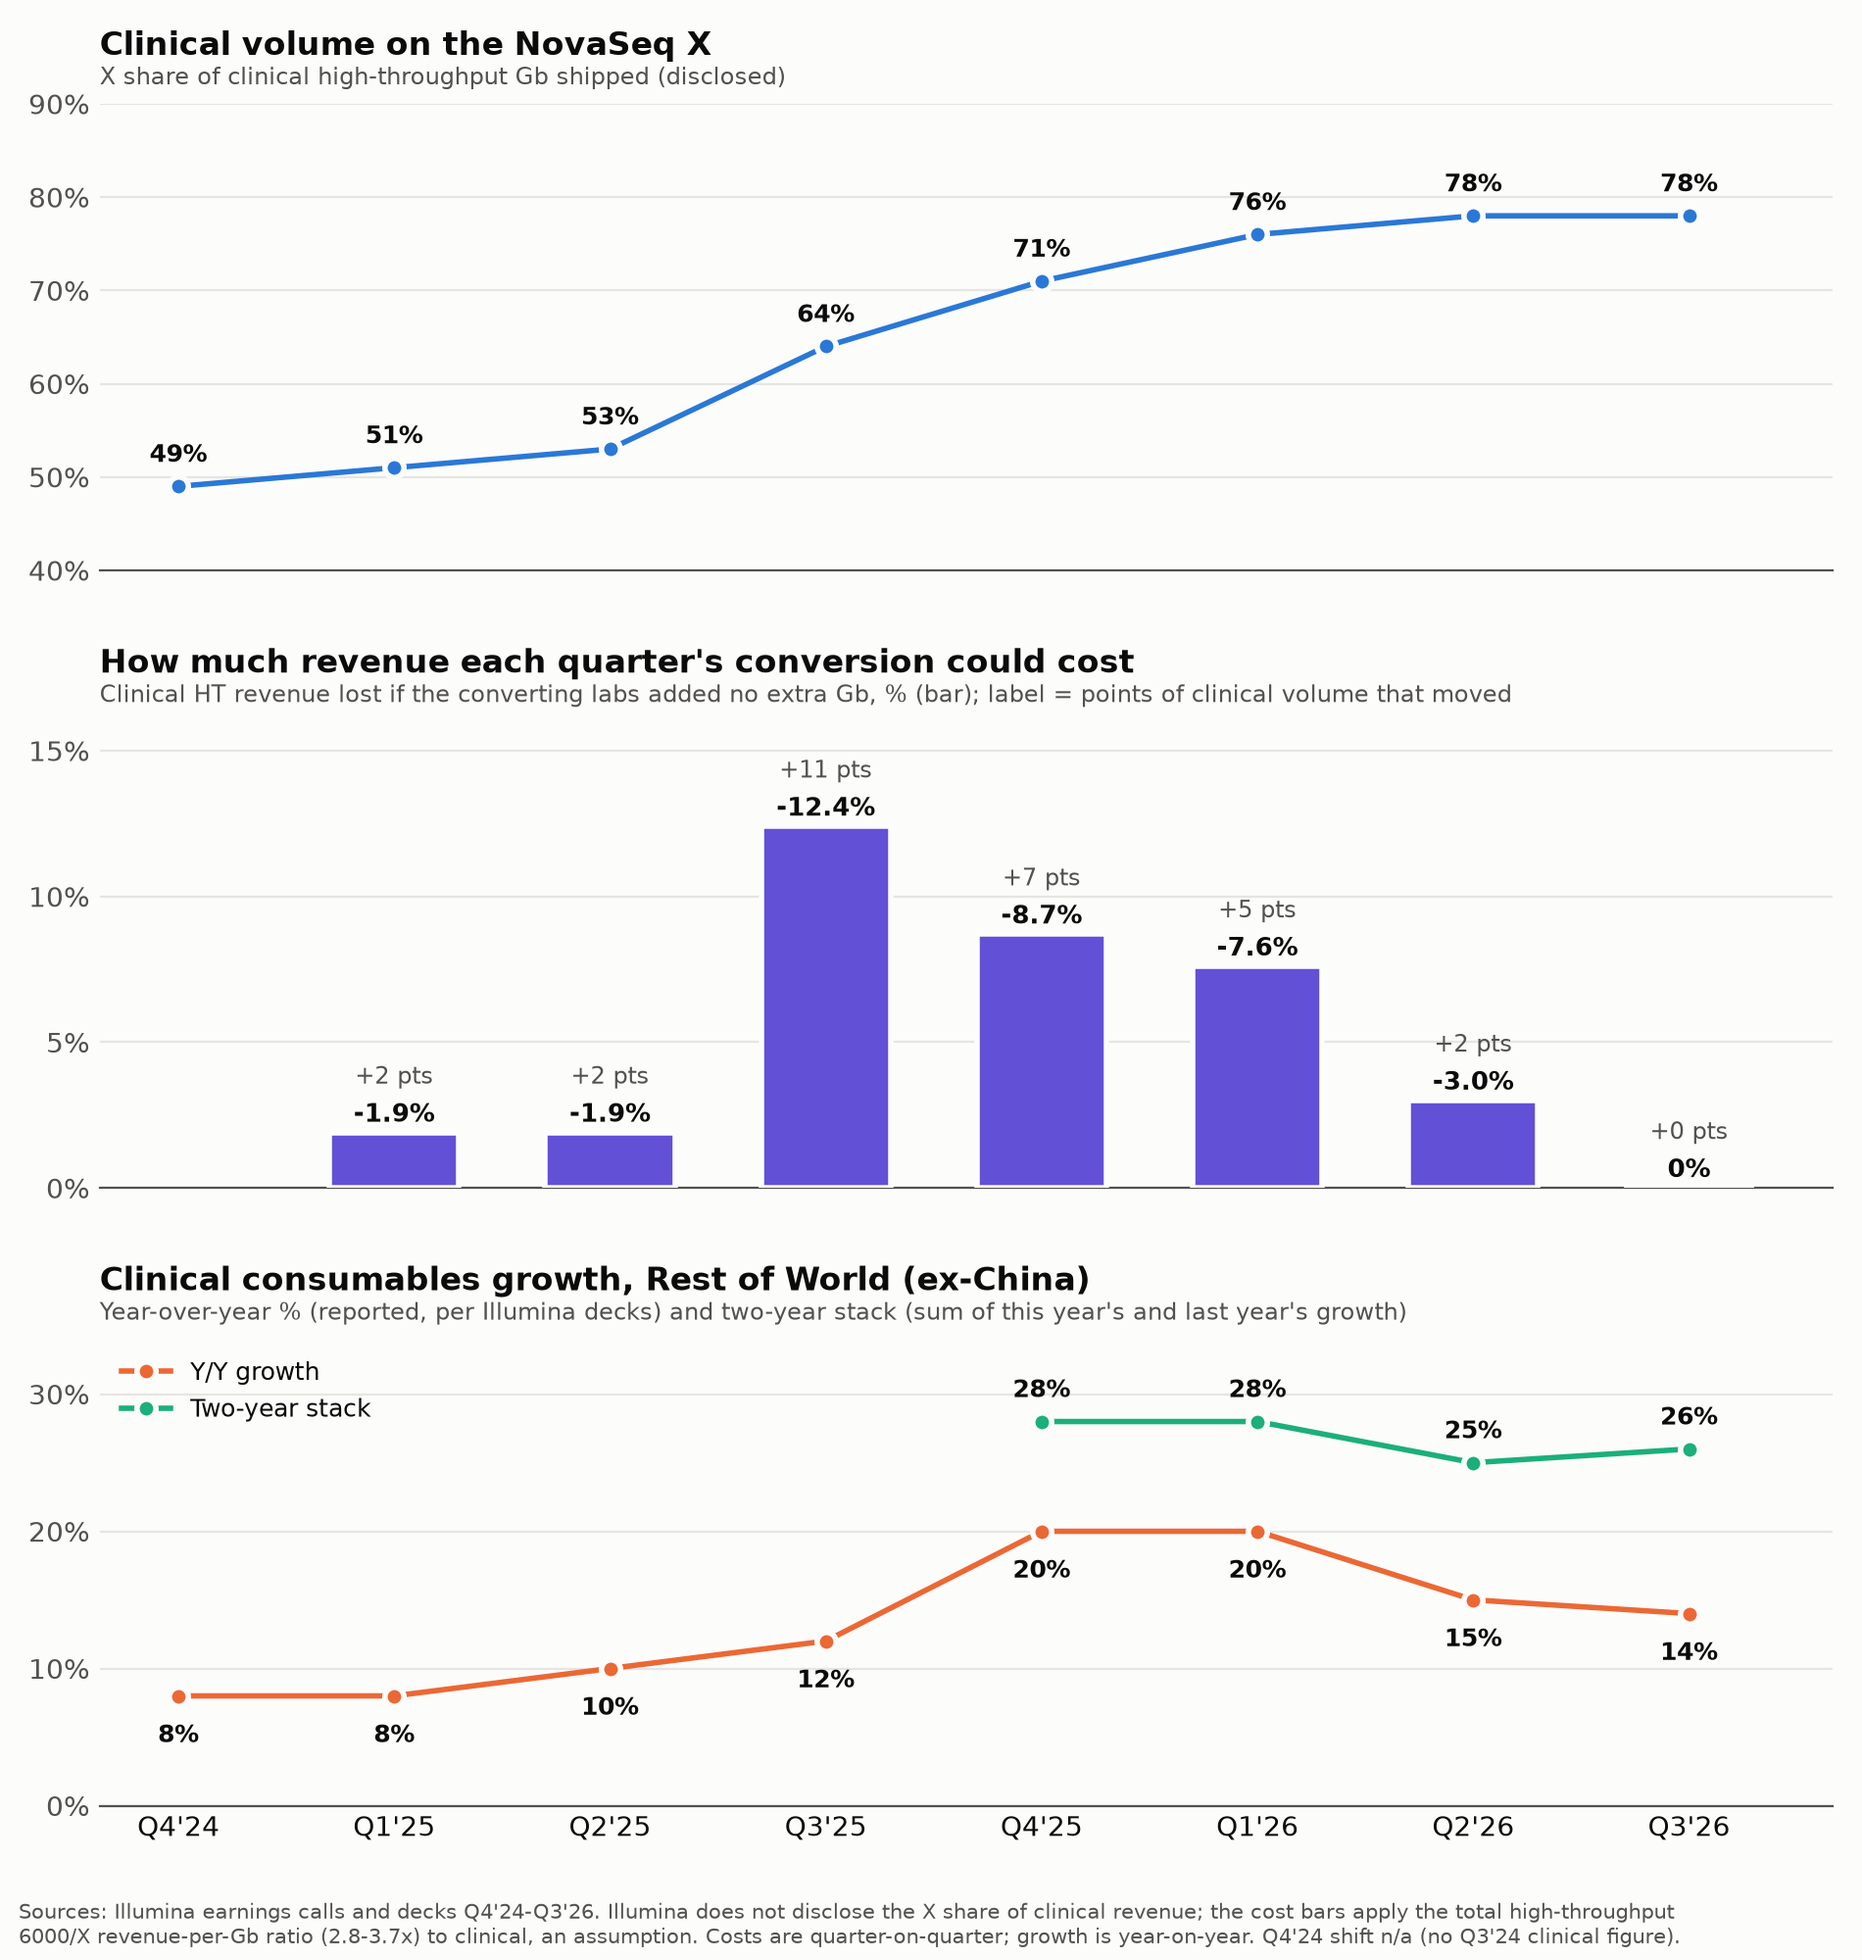
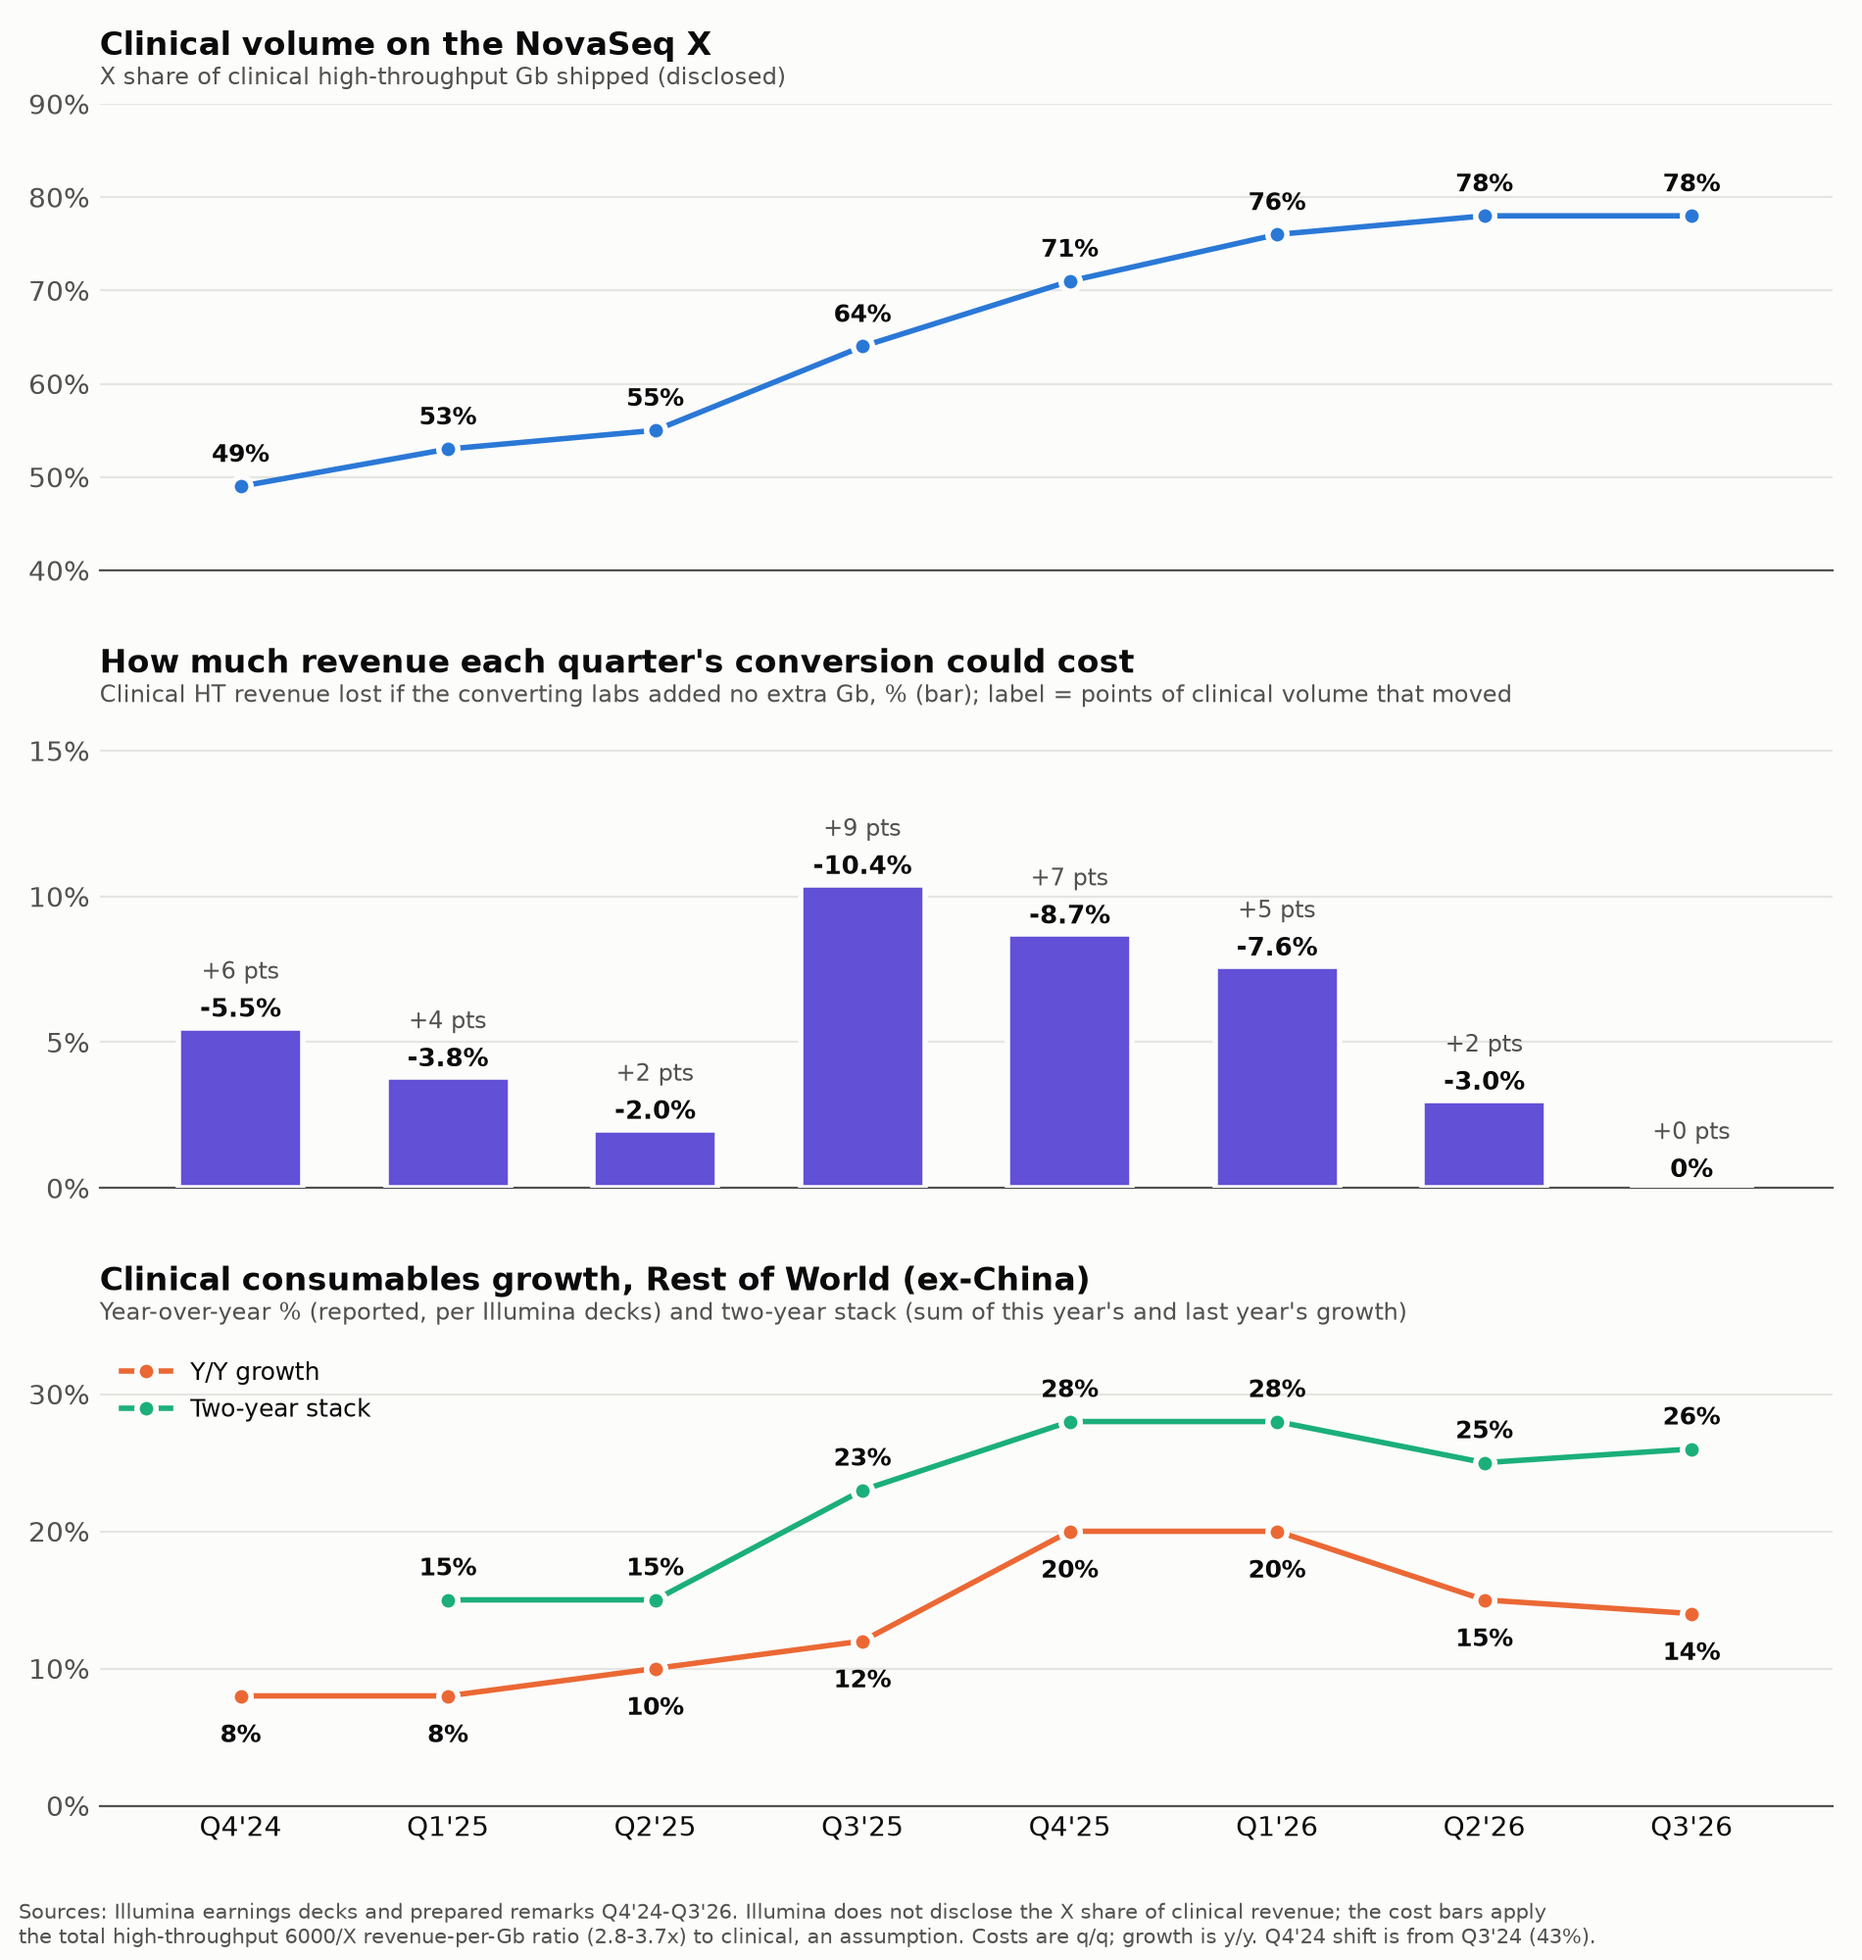
Correct clinical X volume series and add 2025 two-year stacks
- Q1'25 and Q2'25 clinical X volume shares corrected to 53% and 55% per the original decks (series was shifted a quarter)
- Two-year stacks for Q1-Q3'25 added from 2024 clinical growth in the Q3'25 deck
- Documented that the X share of clinical revenue is not disclosed (checked decks Q2'25-Q3'26 and prepared remarks Q1'25-Q3'26 on investor.illumina.com)

diff --git a/Working Notes/Outputs/analyses/2026-10-30_ILMN_clinical_X_conversion_vs_growth.md b/Working Notes/Outputs/analyses/2026-10-30_ILMN_clinical_X_conversion_vs_growth.md
@@ -8,22 +8,24 @@ Large, volume-elastic clinical labs can move a lot of volume to the NovaSeq X an
 
 ## The data limit
 
-Illumina discloses the X's share of clinical **volume**, but never its share of clinical **revenue**. A clinical-only revenue-per-Gb ratio therefore cannot be calculated from disclosures. The workaround below applies the total high-throughput ratio to clinical, which is an assumption.
+Illumina discloses the X's share of clinical **volume**, but never its share of clinical **revenue**. A clinical-only revenue-per-Gb ratio therefore cannot be calculated from disclosures. This was checked against the original PDFs on investor.illumina.com: every deck from Q2'25 to Q3'26 charts revenue as one total series, and the Prepared Remarks give clinical volume only. The only clinical revenue datapoint is Thaysen's "less than 50%" (Wolfe, Nov 2025). The workaround below applies the total high-throughput ratio to clinical, which is an assumption.
 
 ## What the data shows
 
 | Quarter | X % clinical volume | Shift (pts) | Revenue cost if no extra Gb | Clinical growth, RoW | Two-year stack |
 |---|---|---|---|---|---|
-| Q4'24 | 49 | n/a | n/a | 8% | n/a |
-| Q1'25 | 51 | +2 | -1.9% | 8% | n/a |
-| Q2'25 | 53 | +2 | -1.9% | 10% | n/a |
-| Q3'25 | 64 | +11 | -12.4% | 12% | n/a |
+| Q4'24 | 49 | +6 | -5.5% | 8% | n/a |
+| Q1'25 | 53 | +4 | -3.8% | 8% | 15% |
+| Q2'25 | 55 | +2 | -2.0% | 10% | 15% |
+| Q3'25 | 64 | +9 | -10.4% | 12% | 23% |
 | Q4'25 | 71 | +7 | -8.7% | 20% | 28% |
 | Q1'26 | 76 | +5 | -7.6% | 20% | 28% |
 | Q2'26 | 78 | +2 | -3.0% | 15% | 25% |
 | Q3'26 | 78 | 0 | 0% | 14% | 26% |
 
-1. **The elastic case (Q3'25 to Q1'26).** 23 points of clinical volume moved over three quarters. With no extra Gb, that would have cost about 8–12% of clinical high-throughput revenue each quarter. Instead clinical growth rose from 12% to 20%. Those movers added far more volume than the price cut cost them. They were highly elastic, mostly large labs running multi-unit expansions.
+*Revised 2026-10-30. The clinical volume shares for Q1'25 and Q2'25 were corrected to 53% and 55%, per the original decks, and two-year stacks were added for 2025 using 2024 growth from the Q3'25 deck.*
+
+1. **The elastic case (Q3'25 to Q1'26).** 21 points of clinical volume moved over three quarters. With no extra Gb, that would have cost about 8–10% of clinical high-throughput revenue each quarter. The two-year stack rose from 15% to 28%. Instead clinical growth rose from 12% to 20%. Those movers added far more volume than the price cut cost them. They were highly elastic, mostly large labs running multi-unit expansions.
 2. **The inelastic case (Q2'26).** Only 2 points moved, and growth fell 5 points (20% to 15%). The two-year stack fell 3 points (28% to 25%). This fits the thesis, but conversion can explain at most about 3 points of the drop, and only if those labs added no volume at all. Management blamed the rest on the Middle East and Latin America, and said US clinical was still above 20%.
 3. **No conversion (Q3'26).** Nothing moved, and the two-year stack edged back up from 25% to 26%. This also fits: without inelastic conversion, the drag eases.
 

diff --git a/Working Notes/Outputs/datasets/2026-10-30_ILMN_clinical_X_conversion_vs_growth_README.md b/Working Notes/Outputs/datasets/2026-10-30_ILMN_clinical_X_conversion_vs_growth_README.md
@@ -5,7 +5,9 @@
 - how much revenue each quarter's move could cost, if the labs that moved added no extra volume;
 - clinical consumables growth in the Rest of World (RoW, meaning excluding China).
 
-**Compiled:** 2026-10-30, from Illumina earnings calls and decks (Q4'24 to Q3'26), via an agent sweep of the calls, the decks, the clinical-consumables scrape (file 08) and Core Notes 16.
+**Compiled:** 2026-10-30 from Illumina's earnings decks (Q2'25 to Q3'26) and written Prepared Remarks (Q1'25 to Q3'26), read directly from the original PDFs on investor.illumina.com. 2024 clinical growth comes from the Q3'25 deck.
+
+**Revised the same day:** the first version had the clinical volume shares for Q1'25 and Q2'25 one quarter off. The corrected series, per the Q3'26 deck, is 35, 43, 49, 53, 55, 64, 71, 76, 78, 78 (Q2'24 to Q3'26). Two-year stacks for Q1–Q3'25 were added using 2024 growth of 7%, 5%, 11% and 8%.
 
 **Chart:** `Outputs/artifacts/2026-10-30_ILMN_clinical_X_conversion_vs_growth.png`
 
@@ -14,7 +16,7 @@
 - `x_pct_clinical_ht_gb`: the X's share of clinical high-throughput Gb, as disclosed.
   - Where calls and decks differ, the deck figure is used: Q2'25 is 53% (the call said "roughly 55%"), and Q4'25 is 71% (the call said "more than two-thirds").
 - `qoq_shift_pts`: points of clinical volume that moved to the X during the quarter.
-- `x_pct_clinical_ht_rev_derived`: the X's share of clinical revenue. **Illumina does not disclose this.** It is derived by applying the total high-throughput 6000/X revenue-per-Gb ratio to clinical volume. This is the same method Core Notes 16 uses, and it is an assumption.
+- `x_pct_clinical_ht_rev_derived`: the X's share of clinical revenue. **Illumina does not disclose this.** Every deck from Q2'25 to Q3'26 charts revenue as a single total series (27% to 60%); the three-way split (total, research and applied, clinical) is on the volume chart only. The Prepared Remarks give clinical volume only. The one clinical revenue datapoint is Thaysen's "less than 50%" (Wolfe, Nov 2025). It is derived by applying the total high-throughput 6000/X revenue-per-Gb ratio to clinical volume. This is the same method Core Notes 16 uses, and it is an assumption.
 - `total_ht_ratio_6000_to_x`: from `2026-10-30_ILMN_X_vs_6000_share_and_rev_per_gb.csv`.
 - `max_rev_cost_of_shift_pct`: the share of clinical high-throughput revenue lost if the labs that moved added no Gb. Formula: shift × (ratio − 1) ÷ (prior X share + (1 − prior X share) × ratio).
 - `clinical_consumables_row_yoy_pct`: clinical consumables growth, RoW, as shown in Illumina's decks. It is reported growth, not organic.
